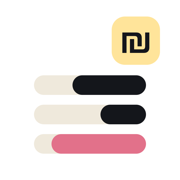
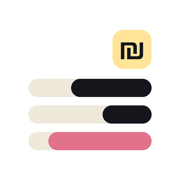
אייקון: אותו ריווח מימין ומשמאל לכל האלמנטים

diff --git a/sw.js b/sw.js
@@ -1,5 +1,5 @@
 // רשת קודם, ואז מטמון: כך שבזמן הפיתוח תמיד רואים את הגרסה העדכנית, ובלי אינטרנט האפליקציה עדיין נפתחת.
-const CACHE='expenses-v8';
+const CACHE='expenses-v9';
 const SHELL=['./','index.html','app.css','app.js','bridge.js','config.js','icon.svg','apple-touch-icon.png','icon-192.png','icon-512.png'];
 self.addEventListener('install',e=>{e.waitUntil(caches.open(CACHE).then(c=>c.addAll(SHELL)).then(()=>self.skipWaiting()))});
 self.addEventListener('activate',e=>{e.waitUntil(caches.keys().then(k=>Promise.all(k.filter(x=>x!==CACHE).map(x=>caches.delete(x)))).then(()=>self.clients.claim()))});

diff --git a/app.js b/app.js
@@ -558,7 +558,7 @@ function settings() {
 }
 
 /* ---------- נעילה: יציאה מהתקציב בלי לנתק את הגיליון ---------- */
-const APP_VERSION = '3.4 · 8.11';   // מתעדכן בכל שחרור, כדי לראות בטלפון שהגרסה החדשה נטענה
+const APP_VERSION = '3.5 · 8.11';   // מתעדכן בכל שחרור, כדי לראות בטלפון שהגרסה החדשה נטענה
 const PIN = {
   get() { return LS.get('pin', null); },
   async hash(pin, salt) { const h = await crypto.subtle.digest('SHA-256', new TextEncoder().encode(salt + ':' + pin)); return [...new Uint8Array(h)].map(x => x.toString(16).padStart(2, '0')).join(''); },
